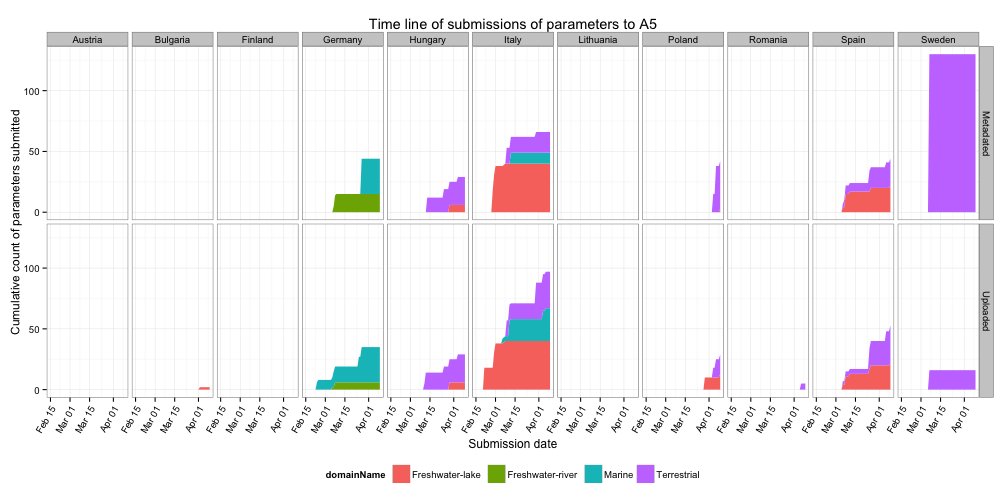
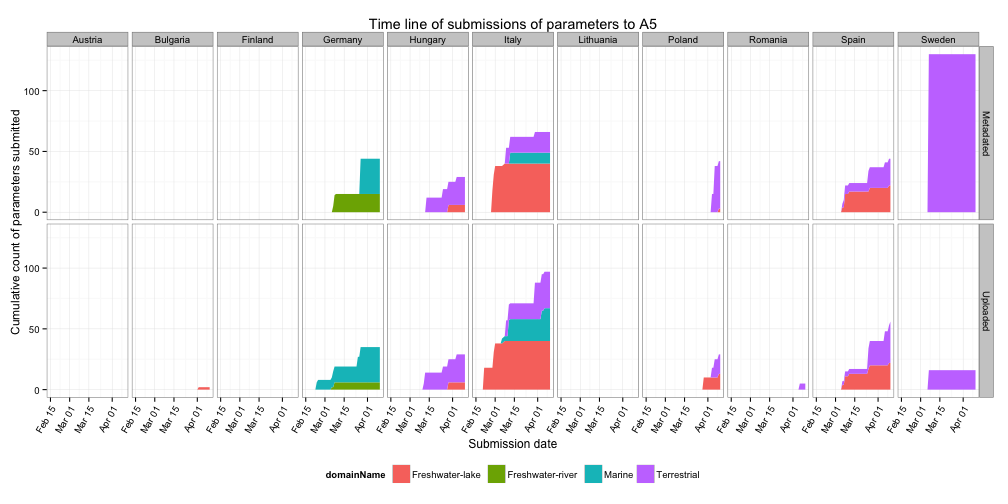
publishing deck

diff --git a/index.html b/index.html
@@ -48,9 +48,9 @@
   </hgroup>
   <article>
     <ul>
-<li>Last updated <code>2013-04-09</code></li>
+<li>Last updated <code>2013-04-10</code></li>
 <li>Deadline for data submission: <code>2013-03-08</code></li>
-<li>Days to deadline: <code>-32</code></li>
+<li>Days to deadline: <code>-33</code></li>
 <li>Total number of sites sampled in 2012: <code>61</code>; sub-sites: <code>65</code></li>
 </ul>
 
@@ -58,13 +58,13 @@
 
 <!-- html table generated in R 2.15.3 by xtable 1.7-0 package -->
 
-<!-- Tue Apr  9 08:21:36 2013 -->
+<!-- Wed Apr 10 21:43:35 2013 -->
 
 <TABLE border=1>
 <TR> <TH>  </TH> <TH> No. uploaded </TH> <TH> No. metadated </TH> <TH> Total no. </TH> <TH> Upload ratio </TH> <TH> Metadata ratio </TH>  </TR>
-  <TR> <TD align="right"> Year2012 </TD> <TD align="right"> 218 </TD> <TD align="right"> 281 </TD> <TD align="right"> 2026 </TD> <TD align="right"> 0.11 </TD> <TD align="right"> 0.14 </TD> </TR>
+  <TR> <TD align="right"> Year2012 </TD> <TD align="right"> 221 </TD> <TD align="right"> 281 </TD> <TD align="right"> 2026 </TD> <TD align="right"> 0.11 </TD> <TD align="right"> 0.14 </TD> </TR>
   <TR> <TD align="right"> Year2011 </TD> <TD align="right">  48 </TD> <TD align="right">  74 </TD> <TD align="right"> 270 </TD> <TD align="right"> 0.18 </TD> <TD align="right"> 0.27 </TD> </TR>
-  <TR> <TD align="right"> Sum </TD> <TD align="right"> 266 </TD> <TD align="right"> 355 </TD> <TD align="right"> 2296 </TD> <TD align="right"> 0.12 </TD> <TD align="right"> 0.15 </TD> </TR>
+  <TR> <TD align="right"> Sum </TD> <TD align="right"> 269 </TD> <TD align="right"> 355 </TD> <TD align="right"> 2296 </TD> <TD align="right"> 0.12 </TD> <TD align="right"> 0.15 </TD> </TR>
    </TABLE>
 
   </article>

diff --git a/index.md b/index.md
@@ -26,19 +26,19 @@ github:
 
 ## State of uploading process
 
-* Last updated ``2013-04-09``
+* Last updated ``2013-04-10``
 * Deadline for data submission: `2013-03-08`
-* Days to deadline: ``-32``
+* Days to deadline: ``-33``
 * Total number of sites sampled in 2012: ``61``; sub-sites: ``65``
 
 Parameters uploaded and metadated:
 <!-- html table generated in R 2.15.3 by xtable 1.7-0 package -->
-<!-- Tue Apr  9 08:21:36 2013 -->
+<!-- Wed Apr 10 21:43:35 2013 -->
 <TABLE border=1>
 <TR> <TH>  </TH> <TH> No. uploaded </TH> <TH> No. metadated </TH> <TH> Total no. </TH> <TH> Upload ratio </TH> <TH> Metadata ratio </TH>  </TR>
-  <TR> <TD align="right"> Year2012 </TD> <TD align="right"> 218 </TD> <TD align="right"> 281 </TD> <TD align="right"> 2026 </TD> <TD align="right"> 0.11 </TD> <TD align="right"> 0.14 </TD> </TR>
+  <TR> <TD align="right"> Year2012 </TD> <TD align="right"> 221 </TD> <TD align="right"> 281 </TD> <TD align="right"> 2026 </TD> <TD align="right"> 0.11 </TD> <TD align="right"> 0.14 </TD> </TR>
   <TR> <TD align="right"> Year2011 </TD> <TD align="right">  48 </TD> <TD align="right">  74 </TD> <TD align="right"> 270 </TD> <TD align="right"> 0.18 </TD> <TD align="right"> 0.27 </TD> </TR>
-  <TR> <TD align="right"> Sum </TD> <TD align="right"> 266 </TD> <TD align="right"> 355 </TD> <TD align="right"> 2296 </TD> <TD align="right"> 0.12 </TD> <TD align="right"> 0.15 </TD> </TR>
+  <TR> <TD align="right"> Sum </TD> <TD align="right"> 269 </TD> <TD align="right"> 355 </TD> <TD align="right"> 2296 </TD> <TD align="right"> 0.12 </TD> <TD align="right"> 0.15 </TD> </TR>
    </TABLE>
 
 
